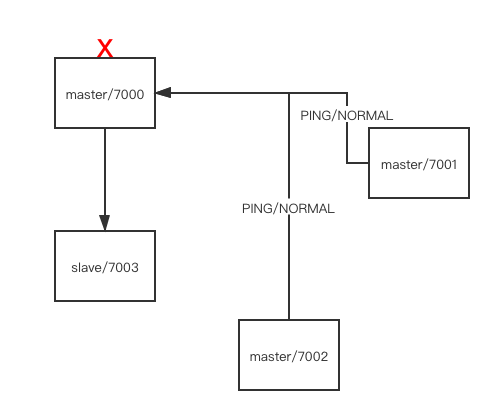
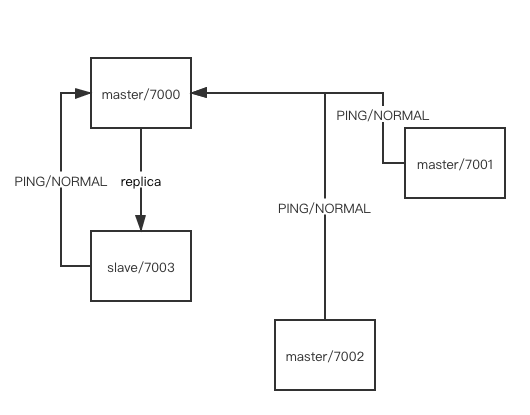
failover v0.3

diff --git a/Server/cluster/failover/failover.md b/Server/cluster/failover/failover.md
@@ -61,7 +61,7 @@ What happended when we fail the node `127.0.0.1:7000` ?
 
 ![overview](https://github.com/zpoint/Redis-Internals/blob/5.0/Server/cluster/failover/overview.png)
 
-For `master/7001` and `master/7002`
+For `master/7001`, `master/7002` and `slave/7003`
 
 `clusterCron` will mark the node as `PFAIL` state if the current node can't receive the `PONG` message for the target node in `cluster-node-timeout` millseconds, default value is 15s
 
@@ -80,12 +80,49 @@ For `master/7001` and `master/7002`
         }
     }
 
-`master/7001` and `master/7002` will communicate with `master/7000` via [gossip](https://github.com/zpoint/Redis-Internals/blob/5.0/Server/cluster/gossip/gossip.md) protocol, After `cluster-node-timeout` millseconds they are not able to receive the `PONG` message, each of them will mark `master/7000` as `PFAIL` state
-
 ![pfail](https://github.com/zpoint/Redis-Internals/blob/5.0/Server/cluster/failover/pfail.png)
 
+`master/7001`, `master/7002` and `slave/7003` will communicate with `master/7000` via [gossip](https://github.com/zpoint/Redis-Internals/blob/5.0/Server/cluster/gossip/gossip.md) protocol, After `cluster-node-timeout` millseconds they are not able to receive the `PONG` message, each of them will mark `master/7000` as `PFAIL` state
+
+![pfail2](https://github.com/zpoint/Redis-Internals/blob/5.0/Server/cluster/failover/pfail2.png)
+
+Every node will has it's own `cluster-node-timeout` configuration, and the time they send `PING` message will various, but if the node `master/7000` really fails, after `timestamp in PING` + `cluster-node-timeout`, majority of node will mark `master/7000` as `PFAIL`
 
 # FAIL
+
+The `PFAIL` state of the `master/7000` will propagate via the [gossip](https://github.com/zpoint/Redis-Internals/blob/5.0/Server/cluster/gossip/gossip.md) protocol, whenever a node receive a node with `PFAIL` state, `markNodeAsFailingIfNeeded` will be called
+
+`markNodeAsFailingIfNeeded` will mark the node `master/7000` as fail state if there're at least `(server.cluster->size / 2) + 1` says the node is in `PFAIL` state, which is 3 in the current cluster
+
+    void markNodeAsFailingIfNeeded(clusterNode *node) {
+        int failures;
+        int needed_quorum = (server.cluster->size / 2) + 1;
+
+        if (!nodeTimedOut(node)) return; /* We can reach it. */
+        if (nodeFailed(node)) return; /* Already FAILing. */
+
+        failures = clusterNodeFailureReportsCount(node);
+        /* Also count myself as a voter if I'm a master. */
+        if (nodeIsMaster(myself)) failures++;
+        if (failures < needed_quorum) return; /* No weak agreement from masters. */
+
+        serverLog(LL_NOTICE,
+            "Marking node %.40s as failing (quorum reached).", node->name);
+
+        /* Mark the node as failing. */
+        node->flags &= ~CLUSTER_NODE_PFAIL;
+        node->flags |= CLUSTER_NODE_FAIL;
+        node->fail_time = mstime();
+
+        /* Broadcast the failing node name to everybody, forcing all the other
+         * reachable nodes to flag the node as FAIL. */
+        if (nodeIsMaster(myself)) clusterSendFail(node->name);
+        clusterDoBeforeSleep(CLUSTER_TODO_UPDATE_STATE|CLUSTER_TODO_SAVE_CONFIG);
+    }
+
+If `master/7001` is the first node that record three `PFAIL` state for node `master/7000`, it will mark it as `FAIL` state and broadcast to all other nodes in the cluster
+
+![fail](https://github.com/zpoint/Redis-Internals/blob/5.0/Server/cluster/failover/fail.png)
 
 # ELECT
 
